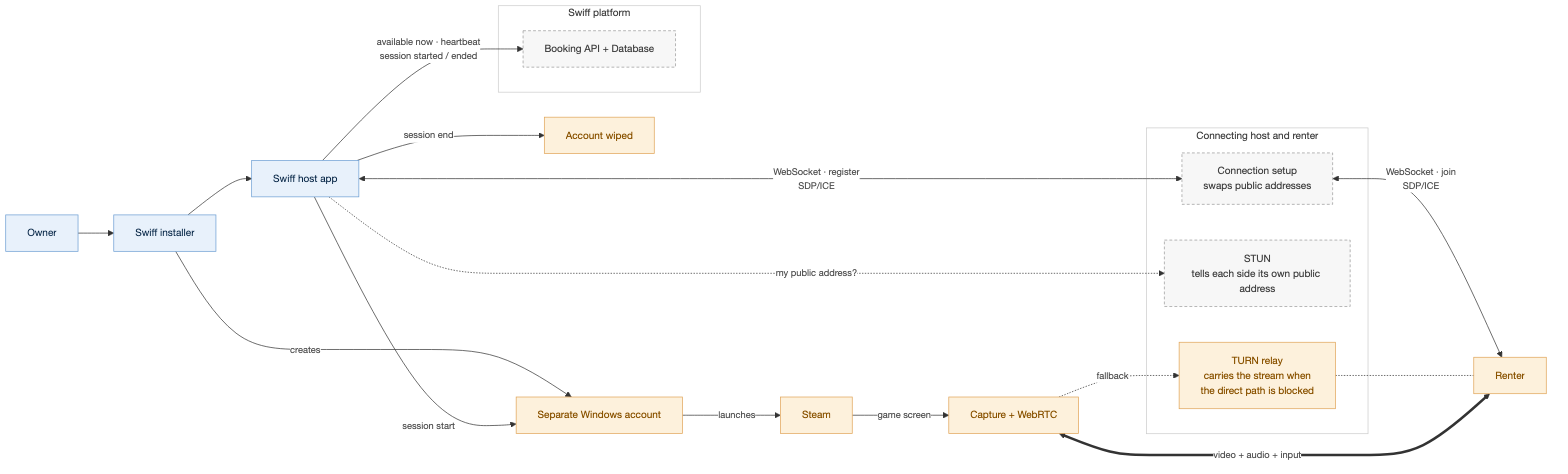
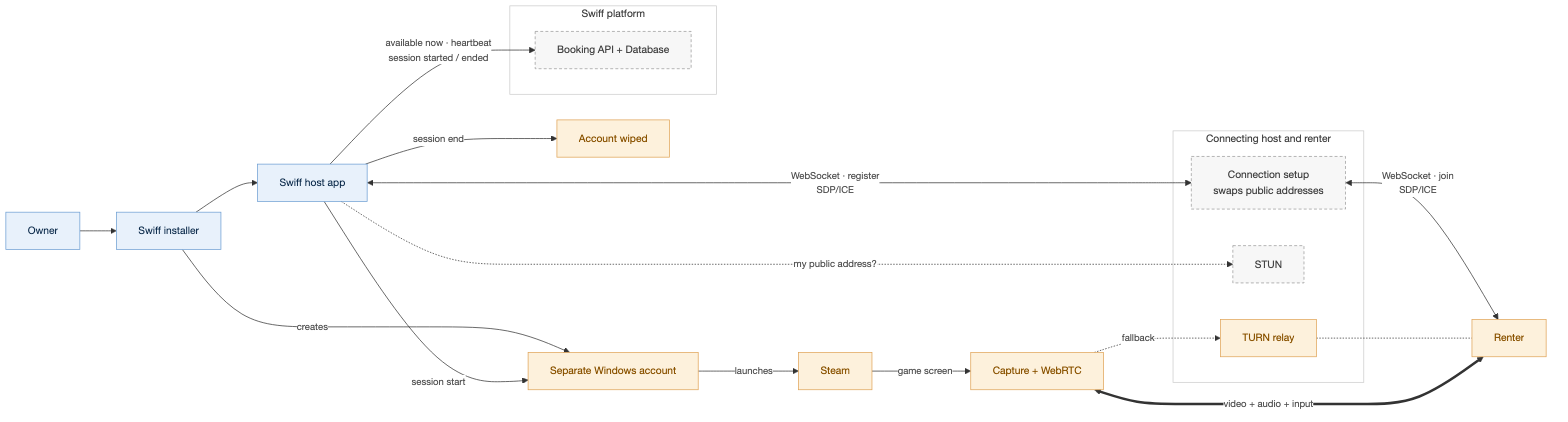
docs: explain STUN and TURN under the host diagram, not in it

diff --git a/docs/system-design/host.md b/docs/system-design/host.md
@@ -8,6 +8,10 @@ The renter side, and the whole-system architecture: [`renter.md`](renter.md).
 
 ![Host isolation](../diagrams/host-isolation.png)
 
+- **STUN** tells each side its own public address, the way the outside world sees it.
+  The two sides then swap those addresses through **Connection setup**.
+- **TURN** relays the stream when no direct path between the two works.
+
 ---
 
 ## 1. Functional requirements
